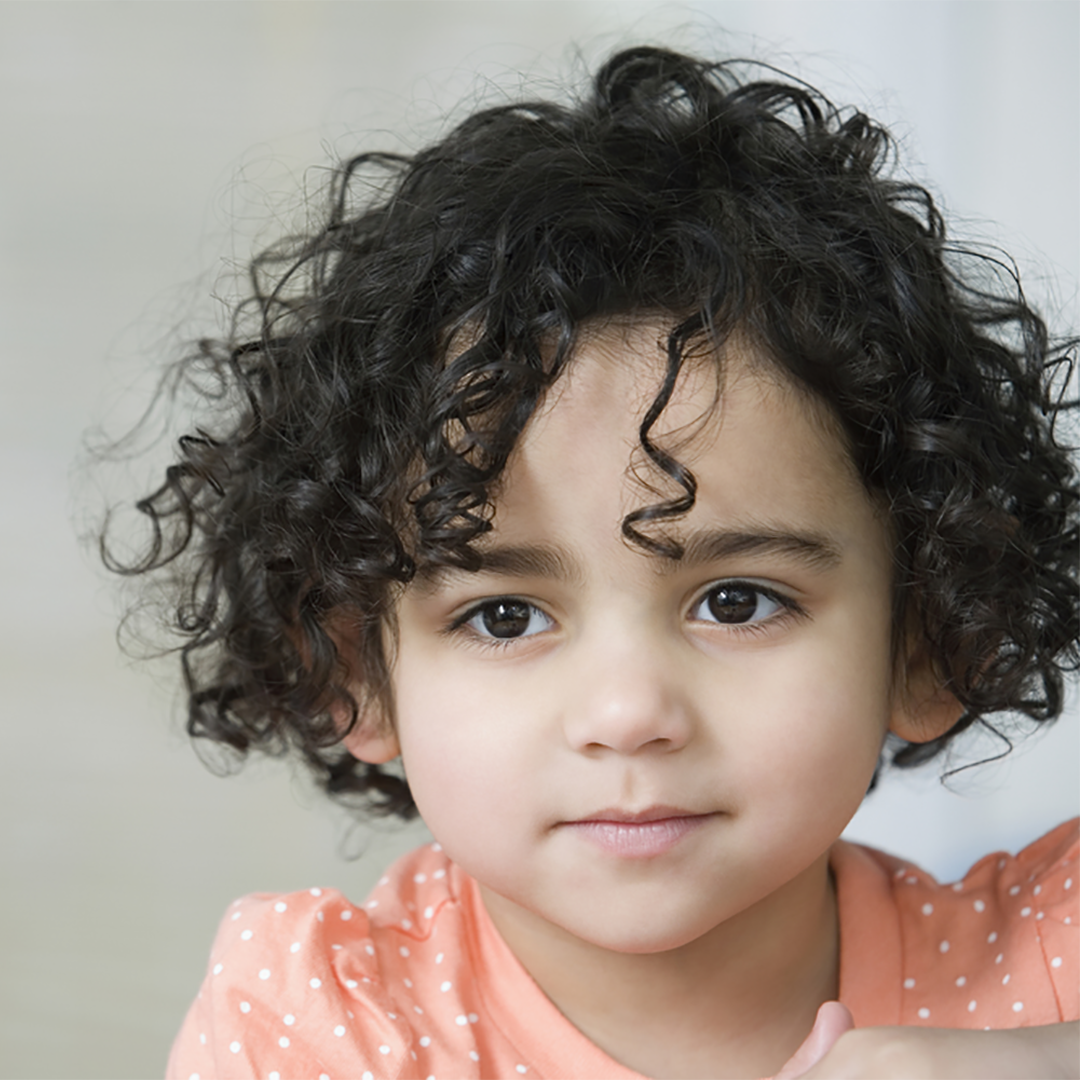
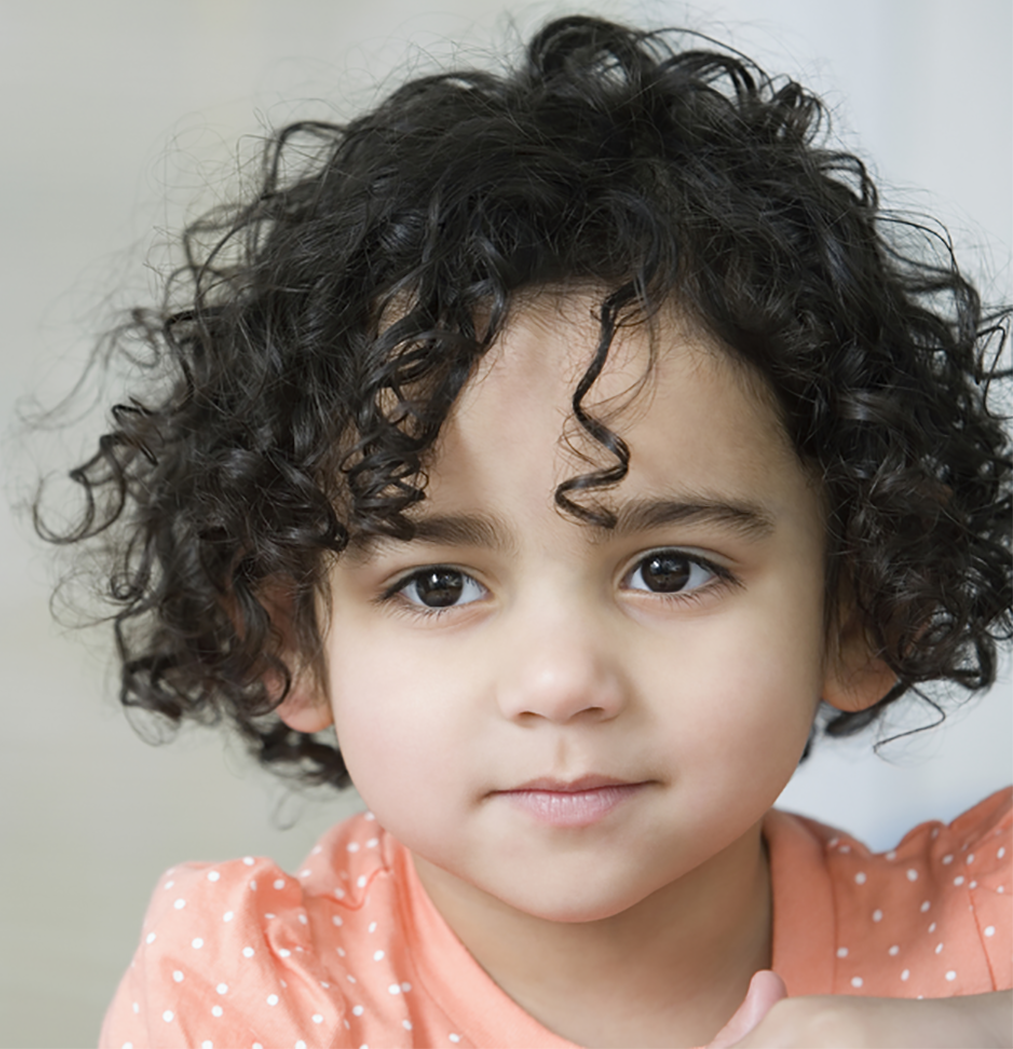
changed images and minor tweaks throughout

diff --git a/scores.html b/scores.html
@@ -60,21 +60,21 @@
                 <ul class="list-group">
                   <li class="list-group-item">
                     <p>Scores the English (MacArthur-Bates Communicative Development Inventory: Words &amp; Gestures, Words &amp; Sentences) and Spanish (Inventario del Desarrollo de Habilidades Comunicativas: Palabras y Gestos, Palabras y Enunciados) forms. This version also scores the short forms, including Level I (8-16 months), IIA and B (16-30 months), and the Level III (appropriate for children 30-37 months of age).</p>
-                  </li>
-                  <li class="list-group-item">
-                    <p>Automatically calculates percentiles for key variables which are included in reports to parents or for in-house use. The program also calculates "composite" scores which merge responses from botht he English and Spanish CDIs (Pearson &amp; Fernandez, 1994; Pearson, et al, 1993). A file listing these matches is available for download by clicking on the following link:</p>
+                <!--  </li>
+                 <li class="list-group-item"> -->
+                    <p>Automatically calculates percentiles for key variables which are included in reports to parents or for in-house use. The program also calculates "composite" scores which merge responses from both the English and Spanish CDIs (Pearson &amp; Fernandez, 1994; Pearson, et al, 1993). A file listing these matches is available for download by clicking on the following link:</p>
                     <div id="link">
                     <p><a class="btn btn-default hvr-underline-from-left"href="documents/Matches.zip">English/Spanish Concept Matches</a></p>
-                    </div>
+                   <!-- </div>
                   </li>
-                  <li class="list-group-item">
+                  <li class="list-group-item"> -->
                     <p>Establishes a database of participants which tracks demographic or medical history, CDI data, other administrations (user-defined &quot;Other Admins&quot;) and group identifications (user-defined &quot;Selection tags&quot;).
                     </p>
-                  </li>
-                  <li class="list-group-item">
+                  <!-- </li>
+                  <li class="list-group-item"> -->
                     <p>Generates Child Reports and Parent Letters that summarize responses in a user-friendly format. Child report and letter templates to fit a variety of specific situations are currently available in English and Spanish. Templates can be modified to meet your own needs and can be tailored for several sub-populations (e.g., a set for normal language participants, a set for children with SLI). </p>
-                  </li>
-                  <li class="list-group-item">
+                 <!-- </li>
+                  <li class="list-group-item"> -->
                     <h3>See Samples</h3>
                       <div class="row" id="scoresamples">
                         <div class="col-lg-3 col-sm-6">
@@ -96,29 +96,28 @@
                           </div>
                         </div>
                       </div>
-                    </li>
-                    <li class="list-group-item">
-                      <p><strong>It's easy to use!</strong> And, you don't need any additional equipment to use the program!!! It is easy to hand-enter data into the program using an user-friendly system. Entering the data for a complete CDI takes less time than hand counting!!! Data can be input at the category (e.g., Animal Sounds) or item level. If you are using the NCS-scannable versions of the forms and have an NCS scanner, the CDI program can import files generated by Scantools. (Our scantools application files for English and Spanish CDIs are available upon request.) </p>
-                      <p>
-                      </p>
-                    </li>
-                    <li class="list-group-item">
+                     <!-- </li>
+                    <li class="list-group-item"> -->
                       <p>Generates &quot;Selected Variable&quot; summaries of data, selecting participants by any criterion and outputting any variable from the CDI and/or user-defined &quot;other administrations&quot; or &quot;selection tags&quot;. These can be output into a table (Access) or spreadsheet (Excel) format. Spreadsheets can be imported to statistical packages as needed.
                       </p>
                     </li>
                     <li class="list-group-item">
-                      <p>Everything that you need to know (hopefully) about how to use the CDI Scoring program is contained in a handy <strong>User's Guide</strong>, but please contact Virginia Marchman if you have any questions.
+                      <p><strong>It's easy to use!</strong> It is easy to hand-enter data into the program using an user-friendly system. Entering the data for a complete CDI takes less time than hand counting!!! Data can be input at the category (e.g., Animal Sounds) or item level. If you are using the NCS-scannable versions of the forms and have an NCS scanner, the CDI program can import files generated by Scantools. (Our scantools application files for English and Spanish CDIs are available upon request.) </p>
+                      <p>
+                      </p>
+                   <!--</li>
+                    <li class="list-group-item"> -->
+                      <p>Everything that you need to know (hopefully) about how to use the CDI Scoring program is contained in a handy User's Guide, but please contact Virginia Marchman if you have any questions.
                       </p>
                     <div id="link">
                           <p><a id="contact" class="btn btn-default hvr-underline-from-left" href="documents/DatabaseInstructions.docx"><strong>Database Instructions</strong></a></p>
                         </div>
-					</li>
-                    <li class="list-group-item">
+					<!--</li>
+                    <li class="list-group-item"> -->
                       <p>The program is <b>FREE</b>, but please do NOT distribute it without permission. Potential users of the program are asked to provide their Name, Email Address and Institution for record keeping purposes, and so that we can notify you of potential updates. For questions or more information, contact Virginia Marchman:</p>
                       <div id="link">
                         <p><a href="mailto:marchman@stanford.edu">marchman@stanford.edu</a></p>
-                      </div>
-                      
+                      </div>  
                     </li>
                   </ul>
                 </div>

diff --git a/index.html b/index.html
@@ -56,11 +56,11 @@
         <div style="margin-top:2%;" class="col-lg-6 frontpage">
         <h1>The MacArthur-Bates Communicative Development Inventories (CDIs)</h1>
         <p>and the corresponding Spanish-language Inventarios, are parent report instruments which capture important information about children's developing abilities in several domains of early language, including vocabulary comprehension, production, gesture use, and early grammar.</p> 
-        <p><span class="minorlink"><a href="news.html">Anouncements and News!</a></span></p>       
+  
         </div>
         <div class="col-lg-6 frontpage">
           <img  src='images/wordle72-1.png'>
-          
+                <p><span class="minorlink"><a href="news.html">Announcements and News!</a></span></p>       
         </div>
       </div>
       
@@ -74,7 +74,7 @@
       <!-- Three columns of text below the carousel -->
       <div class="row" id="bubbles">
         <div class="col-lg-3 col-sm-6" id="bubble">
-          <img class="img-circle" src="images/babies/HispanicGirl1.png" alt="Baby boy" width="140" height="140"><br>
+          <img class="img-circle" src="images/babies/CurlyGirl.png" alt="CurlyGirl" width="140" height="140"><br>
 
           <div class="title">
             <h2><span id="link"><a href="forms.html">English and Spanish Forms</a></span></h2>
@@ -85,7 +85,7 @@
           </div>
         </div><!-- /.col-lg-4 -->
         <div class="col-lg-3 col-sm-6" id="bubble">
-          <img class="img-circle" src="images/babies/ChineseBaby.png" alt="Chinese baby boy" width="140" height="140"><br>
+          <img class="img-circle" src="images/babies/CuteBabyBoy.jpg" alt="CuteBabyBoy width="140" height="140"><br>
           <div class="title">
             <h2><span id="link"><a href="scores.html">Scoring Program</a></span></h2>
           </div>
@@ -95,7 +95,7 @@
           </div>
         </div><!-- /.col-lg-4 -->
         <div class="col-lg-3 col-sm-6" id="bubble">
-          <img class="img-circle" src="images/babies/ChineseGirl.png" alt="Chinese girl" width="140" height="140"><br>
+          <img class="img-circle" src="images/babies/ChineseGirl.png" alt="ChineseGirl" width="140" height="140"><br>
           <div class="title">
             <h2><span id="link"><a href="adaptations.html">Adaptations in Other Languages</a></span></h2>
           </div>

diff --git a/contact.html b/contact.html
@@ -50,10 +50,10 @@
          
             <div class="jumbotron" >
               <h2>Contact Us!</h2>
-              <p>Questions? 
+              <!-- <p>Questions? 
               <br>First, take a look at our <span id="minorlink"><a href="faq.html">FAQ Page</a></span>
                   <br>Still need answers? You can send questions to:<p>
-                    <p></p>
+                    <p></p> -->
               <h3>Larry Fenson</h3>
                 <p>Chair of Advisory Board<br>
                 Department of Psychology<br>

diff --git a/memorial.html b/memorial.html
@@ -1,6 +1,6 @@
 <html>
 <head>
-<title>Announcements and News -- MacArthur-Bates Communicative Development Inventories</title>
+<title>Bates Memorial -- MacArthur-Bates Communicative Development Inventories</title>
 
     <!-- Bootstrap core CSS -->
     <link href="css/bootstrap.css" rel="stylesheet">
